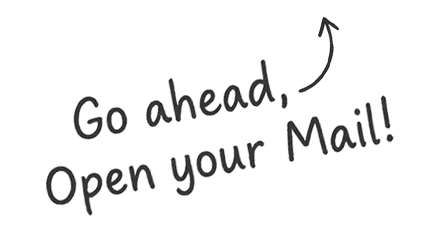
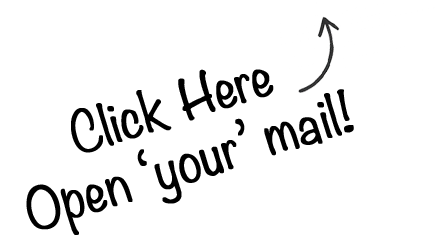
mentor sign in

Changed region(s): [[0.0596, 0.3415, 0.9243, 0.9675], [0.1491, 0.2276, 0.6858, 0.626]]

diff --git a/src/lib/components/Hero/Index.svelte b/src/lib/components/Hero/Index.svelte
@@ -11,6 +11,17 @@
 	let showSecondEmail = false;
 </script>
 
+<div class="enrollment-banner">
+	<span
+		><b>tldr;</b>
+		{#if $activeRole === 'mentee'}
+			Daily personalized list of <u>muslim mentors</u> in your email.
+		{:else}
+			Daily personalized list of <u>muslim mentees</u> in your email.
+		{/if}
+	</span>
+</div>
+
 <section class="hero">
 	<div class="fundraiser" id="fundraiser">
 		<div class="left">
@@ -50,6 +61,43 @@
 </section>
 
 <style>
+	.enrollment-banner {
+		width: 100%;
+		margin-bottom: 1rem;
+		text-align: center;
+	}
+
+	.enrollment-banner span {
+		display: inline-block;
+		background-color: #d9f99d;
+		color: #374151;
+		padding: 0.25rem 1.5rem;
+		border-radius: 9999px;
+		font-size: 0.875rem;
+	}
+
+	.email-img.click-up {
+		box-shadow: none;
+		transition: all 0.5s ease;
+		width: 50%;
+		position: relative;
+		bottom: -10px;
+		right: 0;
+		animation: float 2s ease-in-out infinite;
+	}
+
+	@keyframes float {
+		0% {
+			transform: translateY(0px);
+		}
+		50% {
+			transform: translateY(-8px);
+		}
+		100% {
+			transform: translateY(0px);
+		}
+	}
+
 	.fundraiser {
 		display: flex;
 		align-items: center;
@@ -99,12 +147,6 @@
 		box-shadow: 0 4px 12px rgba(0, 0, 0, 0.1);
 		transition: all 0.3s ease;
 		opacity: 1;
-	}
-
-	.email-img.click-up {
-		box-shadow: none;
-		transition: all 0.5s ease;
-		width: 50%;
 	}
 
 	.email-img.hidden {

diff --git a/src/routes/users/sign_up/+page.svelte b/src/routes/users/sign_up/+page.svelte
@@ -37,7 +37,15 @@
 		}
 	}
 
-	onMount(() => {});
+	onMount(() => {
+		if ($page.url.searchParams.get('type')) {
+			if ($page.url.searchParams.get('type').toLowerCase() === 'mentor') {
+				formFor = 'Mentor';
+			} else if ($page.url.searchParams.get('type').toLowerCase() === 'mentee') {
+				formFor = 'Mentee';
+			}
+		}
+	});
 
 	function addSkill() {
 		modals.open(SkillsModal, {
